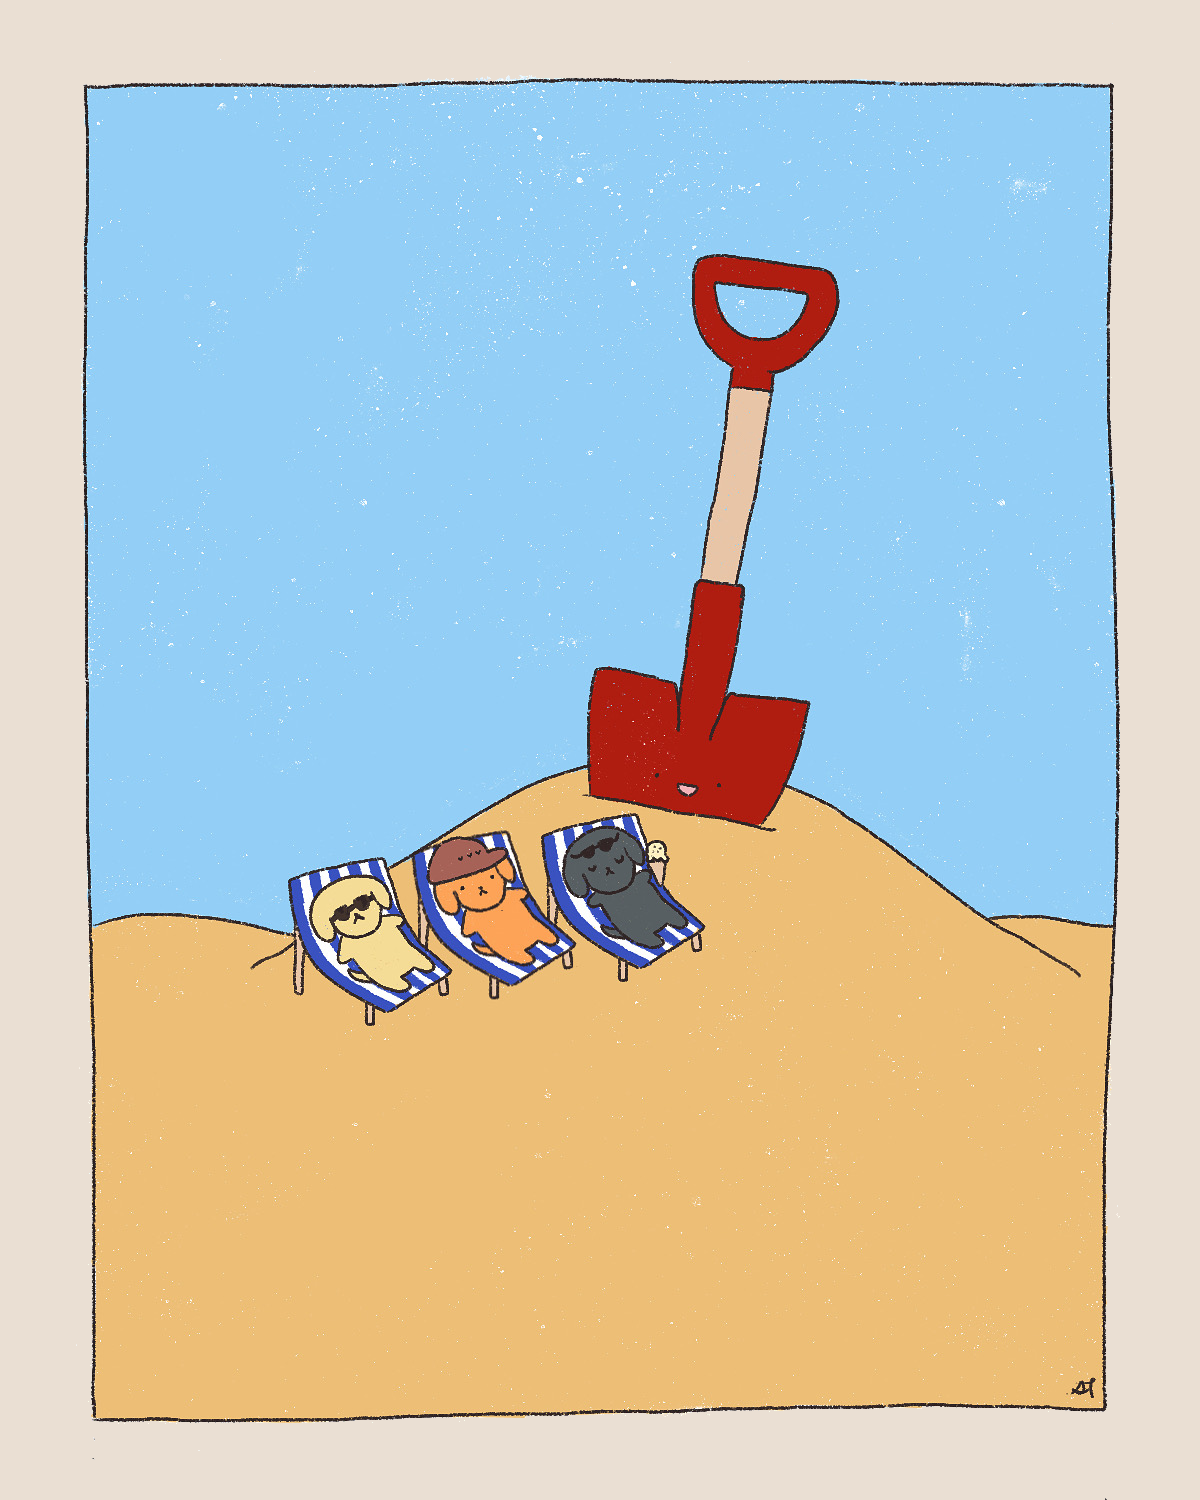
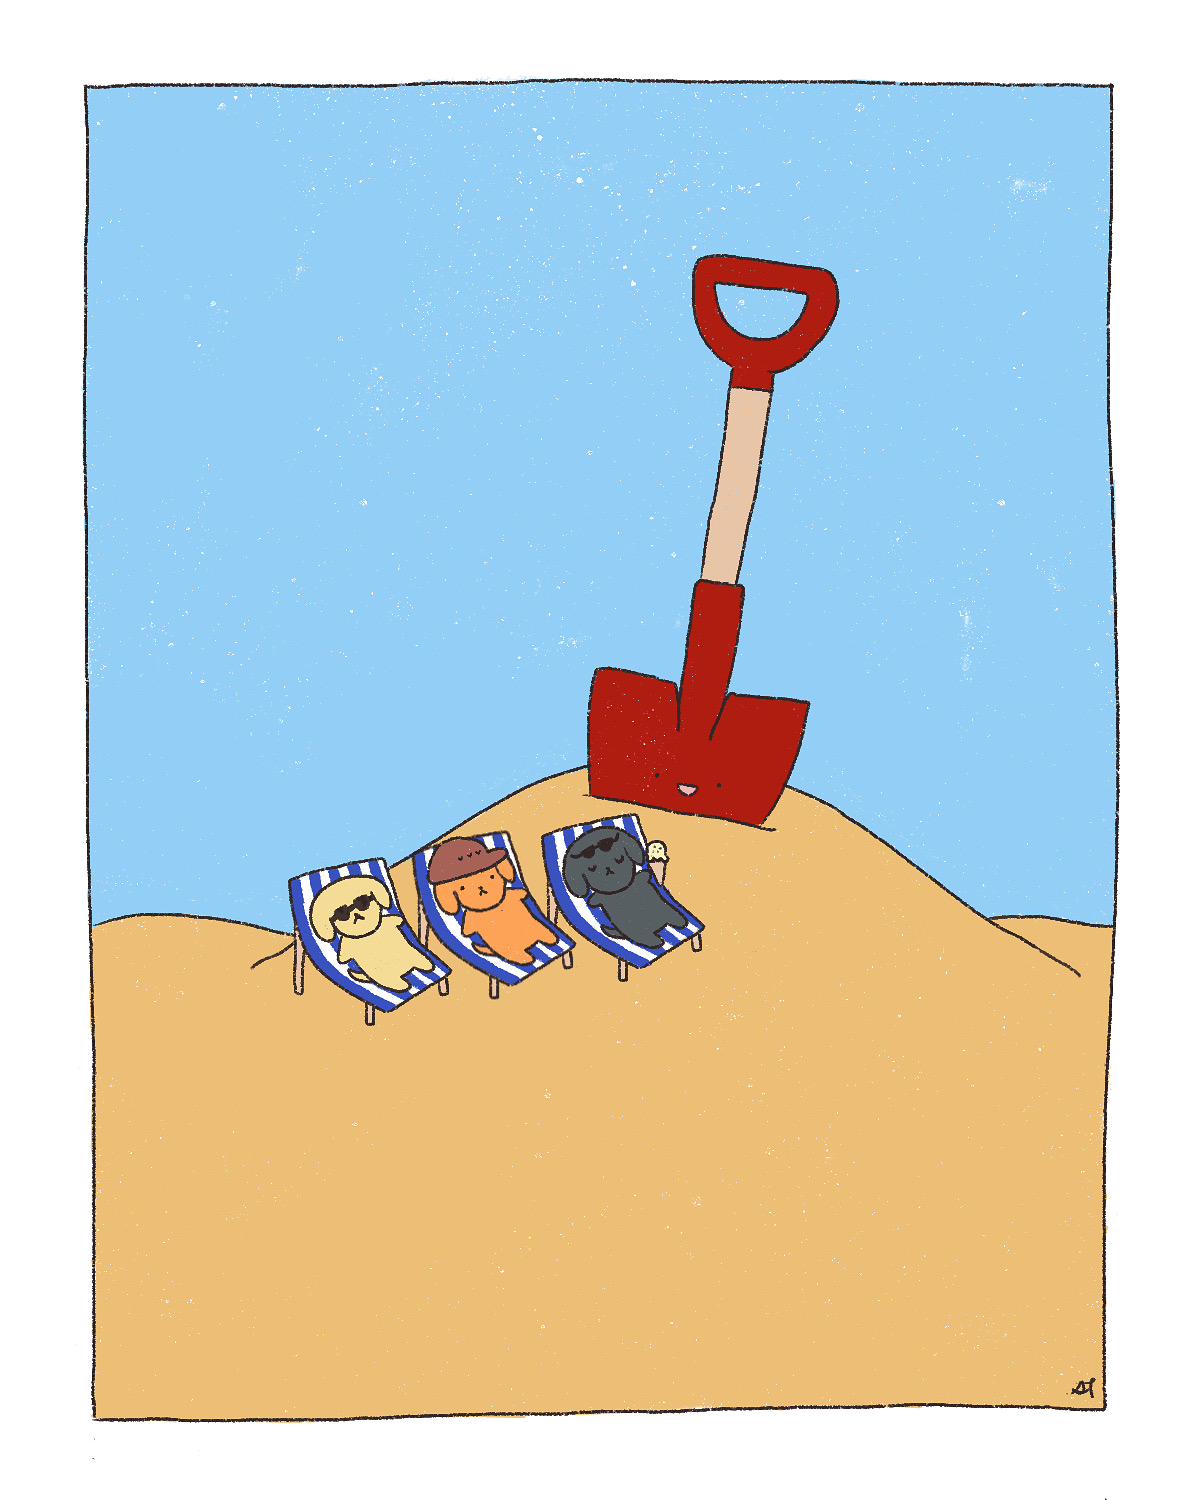
Give the About page dog doodles a white background.
Swap the beige matte for white so those tiles read more cleanly against the hobbies collage.

Changed region(s): [[0.0, 0.0, 1.0, 1.0]]

diff --git a/src/app/globals.css b/src/app/globals.css
@@ -493,8 +493,8 @@ img {
   top: 64.03%;
   width: 18.71%;
   height: 31.19%;
-  background: #eadfd3;
-  border: 0.61px solid #eadfd3;
+  background: #ffffff;
+  border: 0.61px solid #ffffff;
 }
 
 .about-hobby--beach {
@@ -502,8 +502,8 @@ img {
   top: 56.22%;
   width: 18.71%;
   height: 31.19%;
-  background: #eadfd3;
-  border: 0.61px solid #eadfd3;
+  background: #ffffff;
+  border: 0.61px solid #ffffff;
 }
 
 .about-hobby--matcha {
